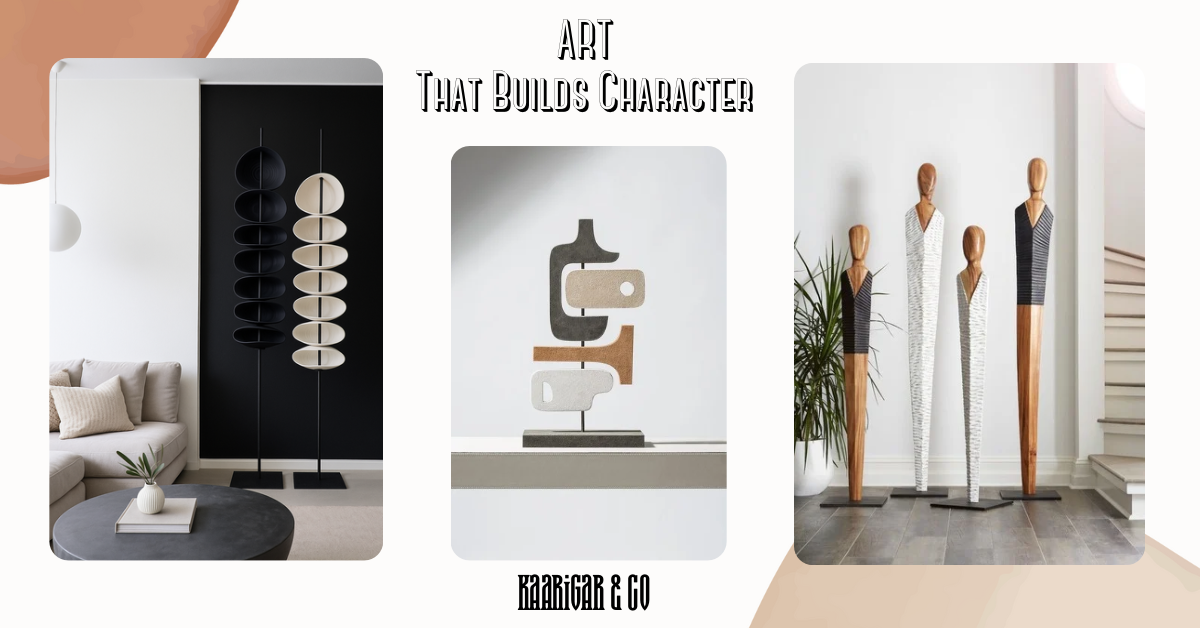
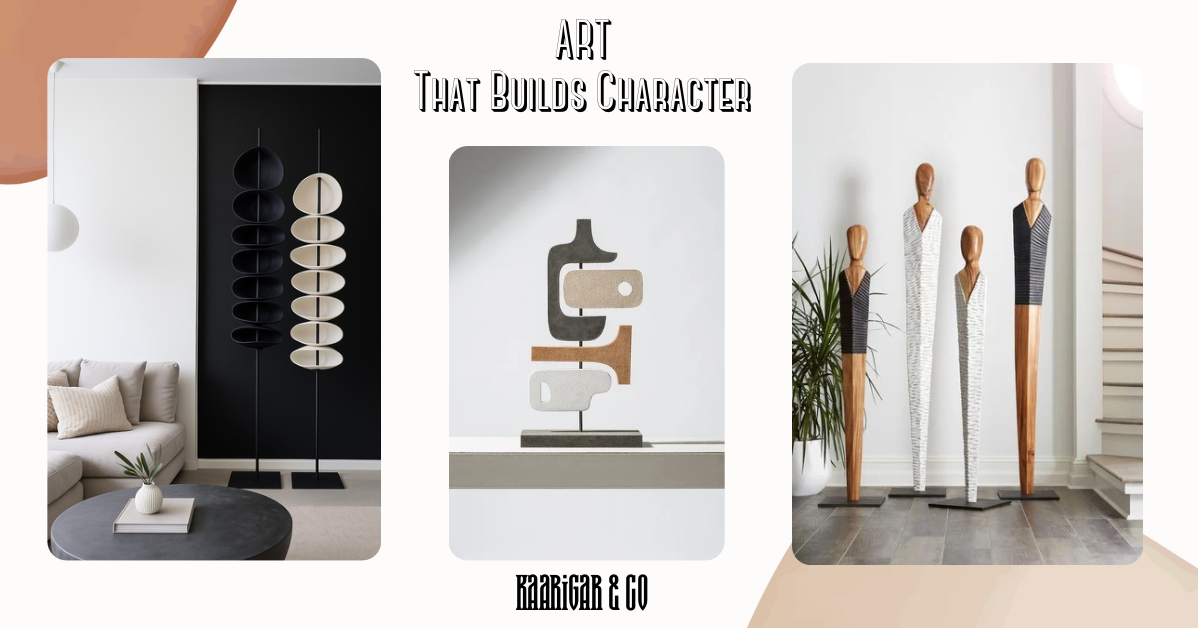
change 10

diff --git a/src/Component/Home.jsx b/src/Component/Home.jsx
@@ -11,7 +11,9 @@ import carsoul4 from "./photos/slide3.jpeg";
 import carsoul5 from "./photos/slide7.png";
 import carsoul6 from "./photos/slide8.png";
 import carsoul8 from "./photos/slidenew1.png";
-import carsoul7 from "./photos/slide9.png";
+// import carsoul7 from "./photos/slide9.png";
+// import carsoul7 from "./photos/slide_9.jpg";
+import carsoul7 from "./photos/slide_10.jpg";
 
 import madira1 from "./photos/madira2.png";
 // import jua from "./photos/jua2.png";
@@ -75,7 +77,7 @@ const Home = ({cart , setCart}) => {
   useEffect(() => {
     const interval = setInterval(() => {
       setCurrentIndex((prev) => (prev + 1) % images.length);
-    }, 3000);
+    }, 30000);
     return () => clearInterval(interval);
   }, []);
 
@@ -126,7 +128,7 @@ const Home = ({cart , setCart}) => {
               <img
                 src={src}
                 alt={`slide-${index}`}
-                className="w-full sm:h-[60vh] md:h-[80vh] object-contain sm:object-fill md:object-fill transition-transform duration-700 ease-in-out"
+                className="w-full sm:h-[60vh] md:h-[80vh] object-fill sm:object-fill md:object-fill transition-transform duration-700 ease-in-out"
               />
             </div>
           ))}
@@ -190,7 +192,7 @@ const Home = ({cart , setCart}) => {
                 <img
                   src={item.image}
                   alt={item.title}
-                  className="w-full h-full object-fill bg-gray-100 transition-transform duration-500 group-hover:scale-105"
+                  className="w-full h-full object-contain bg-gray-100 transition-transform duration-500 group-hover:scale-105"
                 />
               </div>
 

diff --git a/src/Component/Aestheticspremi.jsx b/src/Component/Aestheticspremi.jsx
@@ -10,6 +10,9 @@ import Img6 from "./photos/Aestheticspremi4.jpeg";
 
 import Img8 from "./photos/Aestheticspremi7.jpeg";
 import Img9 from "./photos/Aestheticspremi9.jpeg";
+import Img39 from "./photos/Aestheticspremi10.jpg";
+import Img40 from "./photos/Aestheticspremi11.jpg";
+import Img41 from "./photos/Aestheticspremi12.png";
 
 import Img1 from "./photos/luxe1.png";
 import Img2 from "./photos/luxe2.png";
@@ -385,6 +388,25 @@ const originals = [
     resizeOption: false,
     frameOption: false,
   },
+  {
+    id: 32,
+    title: "Kava Cups set of 2(Clay)",
+    basePrice: 3000,
+    image:Img39,
+    link: "#",
+    resizeOption: false,
+    frameOption: false,
+  },
+  {
+    id: 33,
+    title: "The Third Seat (1pc) ",
+    basePrice: 30000,
+    image:Img40,
+    wallImage:Img41,
+    link: "#",
+    resizeOption: false,
+    frameOption: false,
+  },
 ];
 
 const fadeInUp = {
@@ -467,6 +489,7 @@ const Aestheticspremi = ({ cart, setCart }) => {
             <TiltCard>
               <Card
                 product={product}
+                category="aestheticspremi"
                 onClick={() => setSelectedProduct(product)}
               />
             </TiltCard>

diff --git a/src/Component/Artifacts.jsx b/src/Component/Artifacts.jsx
@@ -30,6 +30,10 @@ import Img40 from "./photos/artifacts45.png";
 import Img41 from "./photos/artifacts46.jpg";
 import Img42 from "./photos/artifacts47.png";
 import Img43 from "./photos/artifacts48.png";
+import Img44 from "./photos/artifacts49.jpg";
+import Img45 from "./photos/artifacts50.png";
+import Img46 from "./photos/Aestheticspremi10.jpg";
+
 
 
 
@@ -220,6 +224,23 @@ const originals = [
     basePrice: 16000,
     link: "#",
   },
+  {
+    id: 29,
+    title: "Timeless unity",
+    image: Img44,
+    wallImage:Img45,
+    basePrice: 82000,
+    link: "#",
+  },
+   {
+      id: 30,
+      title: "Kava Cups set of 2(Clay)",
+      basePrice: 3000,
+      image:Img46,
+      link: "#",
+      resizeOption: false,
+      frameOption: false,
+    },
   
 ];
 
@@ -299,7 +320,7 @@ const Painting = ({ cart, setCart }) => {
             transition={{ delay: index * 0.2 }}
           >
             <TiltCard>
-              <Card product={product} onClick={() => setSelectedProduct(product)} />
+              <Card product={product} category="artifacts" onClick={() => setSelectedProduct(product)} />
              
             </TiltCard>
           </motion.div>

diff --git a/src/Component/Furniture.jsx b/src/Component/Furniture.jsx
@@ -13,6 +13,9 @@ import Img20 from "./photos/artifacts23.jpg";
 import Img25 from "./photos/artifacts30.png";
 import Img27 from "./photos/artifacts34.png";
 
+import Img2 from "./photos/Aestheticspremi11.jpg";
+import Img3 from "./photos/Aestheticspremi12.png";
+
 import music from "./photos/music.png";
 
 import ProductCart from "./ProductCard";
@@ -109,6 +112,16 @@ const originals = [
     basePrice: 25000,
     link: "#",
   },
+  {
+      id: 10,
+      title: "The Third Seat (1pc) ",
+      basePrice: 30000,
+      image:Img2,
+      wallImage:Img3,
+      link: "#",
+      resizeOption: false,
+      frameOption: false,
+    },
 ];
 
 const fadeInUp = {
@@ -189,6 +202,7 @@ const Painting = ({ cart, setCart }) => {
             <TiltCard>
               <Card
                 product={product}
+                category="artifacts"
                 onClick={() => setSelectedProduct(product)}
               />
             </TiltCard>

diff --git a/src/Component/Kaarigarluxe.jsx b/src/Component/Kaarigarluxe.jsx
@@ -39,6 +39,11 @@ import Img33 from "./photos/artifacts39.jpg";
 import Img34 from "./photos/artifacts37.png";
 import Img35 from "./photos/artifacts38.png";
 import Img36 from "./photos/cinema.jpg";
+import Img37 from "./photos/artifacts49.jpg";
+import Img38 from "./photos/artifacts50.png";
+
+import Img39 from "./photos/Aestheticspremi11.jpg";
+import Img40 from "./photos/Aestheticspremi12.png";
 
 import ProductCart from "./ProductCard";
 
@@ -278,6 +283,26 @@ const originals = [
     link: "#",
     height: 25,
     width: 18,
+  },
+  {
+    id: 31,
+    title: "Timeless unity",
+    basePrice: 82000,
+    image: Img37,
+    wallImage: Img38,
+    link: "#",
+    resizeOption:false,
+    frameOption: false,
+  },
+  {
+    id: 32,
+    title: "The Third Seat (1pc) ",
+    basePrice: 30000,
+    image:Img39,
+    wallImage:Img40,
+    link: "#",
+    resizeOption: false,
+    frameOption: false,
   },
 ];
 

diff --git a/src/Component/Card.jsx b/src/Component/Card.jsx
@@ -1,7 +1,7 @@
 import { motion } from "framer-motion";
 import { ArrowRight } from "lucide-react";
 
-const Card = ({ product, onClick }) => {
+const Card = ({ product, onClick , category }) => {
   return (
     <a
       href={product?.link}
@@ -23,6 +23,12 @@ const Card = ({ product, onClick }) => {
         <h3 className="text-[16px] md:text-xl font-[Amita] font-semibold md:font-bold text-black mb-2">
           {product?.title}
         </h3>
+        {
+          category === "artifacts" &&
+        <h3 className="text-[16px] md:text-xl font-[Amita] font-medium md:font-semibold text-black mb-2">
+          {product?.basePrice}
+        </h3>
+        }
         <motion.button
                     whileHover={{ scale: 1.05 }}
                     whileTap={{ scale: 0.95 }}
